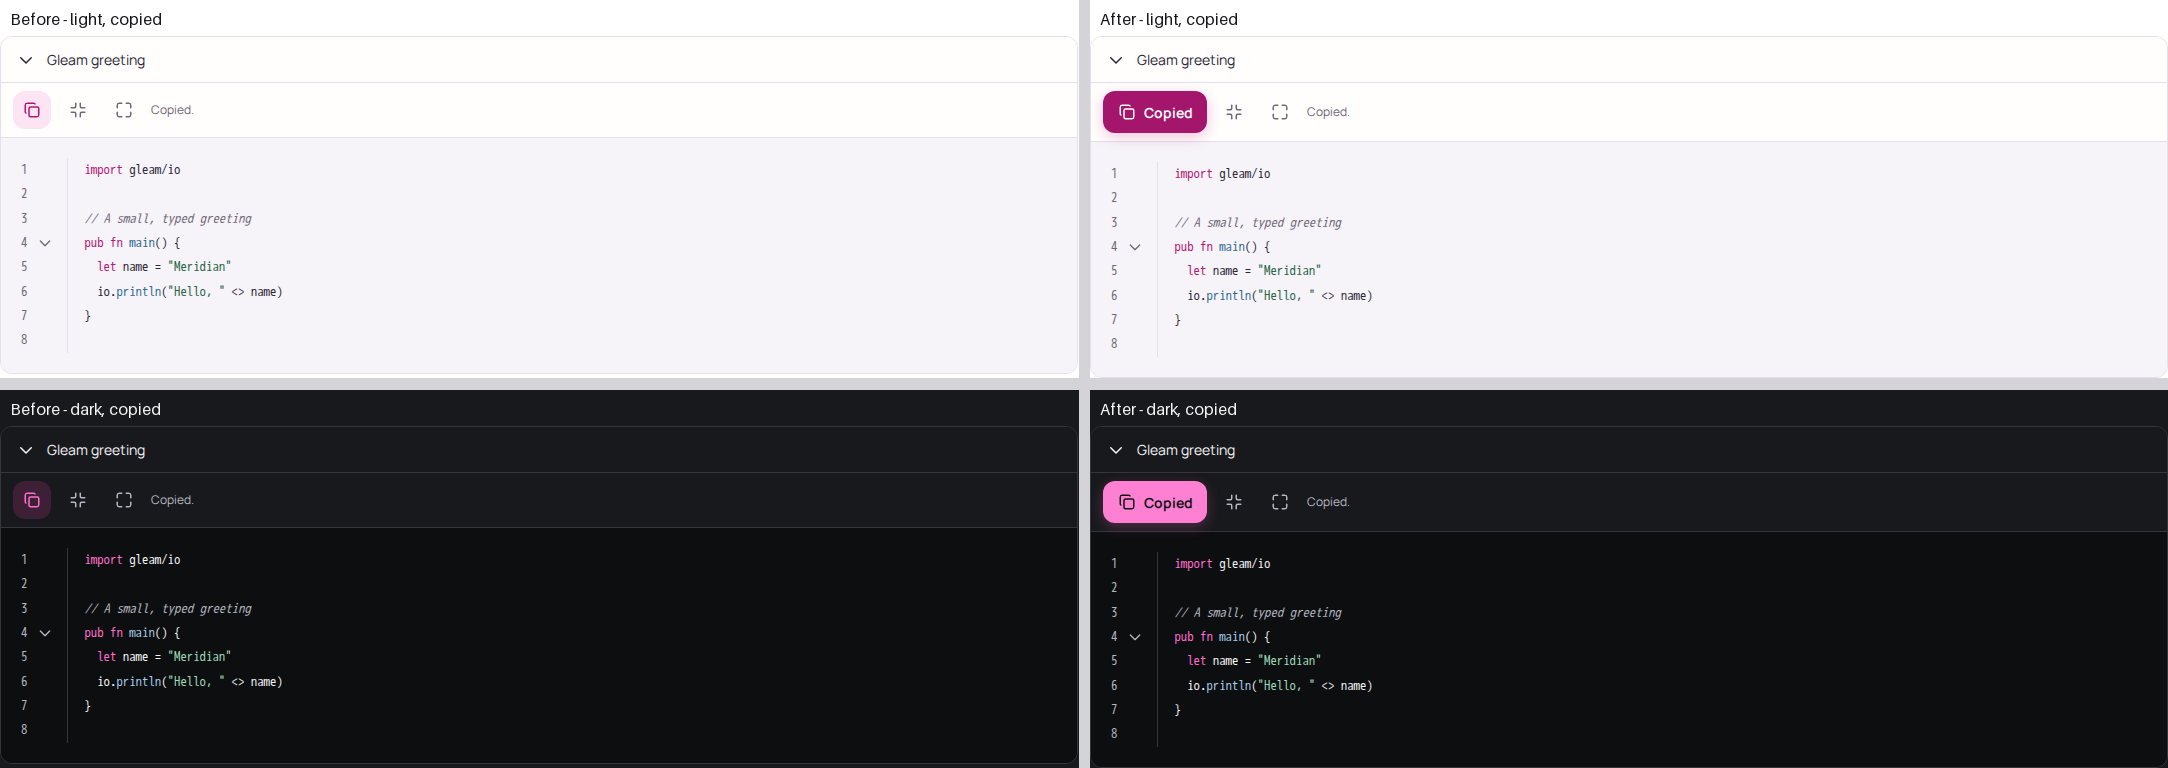
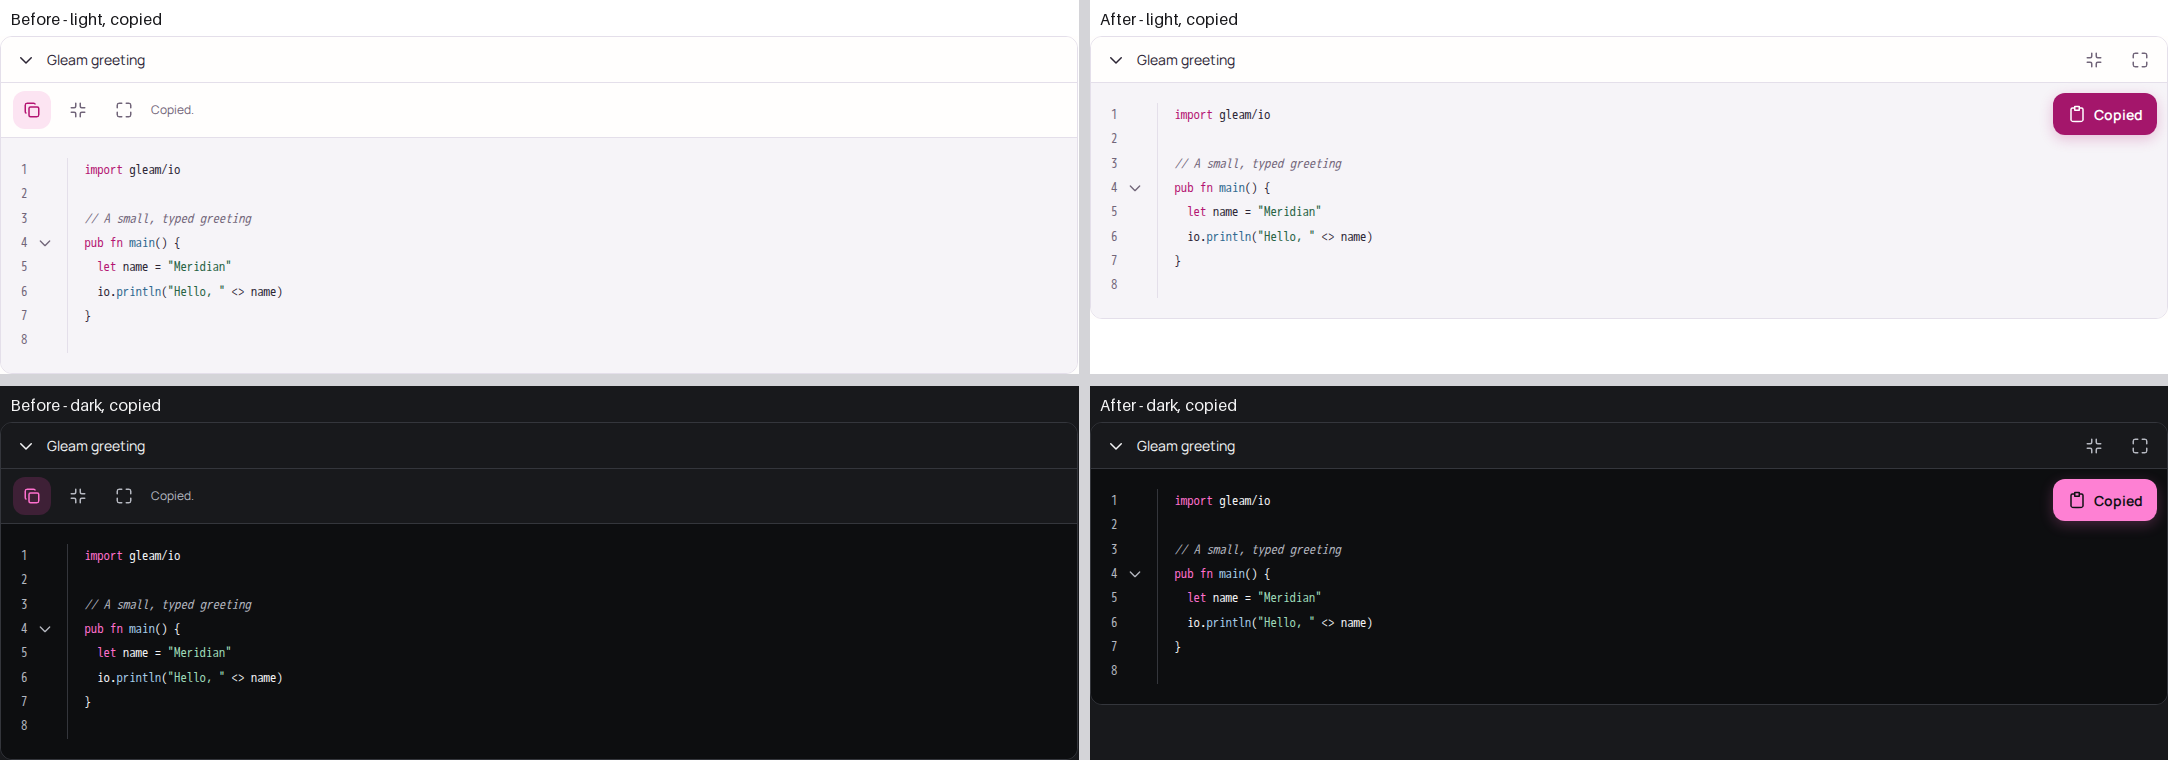
Float code copy over the source with one success label

diff --git a/priv/meridian-ui.css b/priv/meridian-ui.css
@@ -3066,6 +3066,7 @@
     border-block-start: 1px solid currentColor;
   }
   .meridian-code-viewer {
+    position: relative;
     min-inline-size: 0;
     max-inline-size: 100%;
     border: 1px solid var(--border);
@@ -3081,12 +3082,18 @@
   .meridian-code-viewer > summary::-webkit-details-marker {
     display: none;
   }
+  .meridian-code-viewer:has(> .meridian-code-tools) > summary {
+    padding-inline-end: 104px;
+  }
   .meridian-code-viewer[open] > summary .meridian-disclosure-icon {
     transform: rotate(90deg);
   }
-  .meridian-code-viewer > .meridian-code-block {
-    border: 0;
+  .meridian-code-content {
+    position: relative;
     border-block-start: 1px solid var(--border);
+  }
+  .meridian-code-content > .meridian-code-block {
+    border: 0;
     border-radius: 0;
   }
   .meridian-code-block {
@@ -3151,21 +3158,30 @@
     content: " ...";
   }
   .meridian-code-tools {
+    position: absolute;
+    inset-block-start: 4px;
+    inset-inline-end: 8px;
     display: flex;
     align-items: center;
     flex-wrap: wrap;
     gap: 8px;
-    padding: 8px 12px;
-    border-block-start: 1px solid var(--border);
-    background: var(--panel);
   }
-  .meridian-code-tools .meridian-icon {
+  .meridian-code-tools .meridian-icon,
+  .meridian-code-copy .meridian-icon {
     inline-size: 18px;
     block-size: 18px;
   }
   .meridian-code-copy {
+    position: absolute;
+    inset-block-start: 10px;
+    inset-inline-end: 10px;
+    z-index: 1;
     min-inline-size: 6.5rem;
     justify-content: center;
+    opacity: 0.75;
+  }
+  .meridian-code-copy:is(:hover, :focus-visible, [data-copied="true"]) {
+    opacity: 1;
   }
   @media (hover: hover) and (pointer: fine) {
     .meridian-code-viewer:not(:hover):not(:focus-within)
@@ -3174,8 +3190,16 @@
     }
   }
   .meridian-code-status {
+    position: absolute;
     color: var(--muted);
     font-size: 0.75rem;
+  }
+  .meridian-code-status:not(:empty):not(.sr-only) {
+    position: static;
+    display: block;
+    padding: 12px;
+    padding-inline-end: 132px;
+    background: var(--panel);
   }
   .meridian-code-keyword,
   .meridian-code-annotation {

diff --git a/README.md b/README.md
@@ -413,11 +413,14 @@ with syntax colours, line numbers, a left-to-right code layout and keyboard
 scrolling. Line numbers stay out of selected and copied text. It does not evaluate
 HTML or source code. Compose it with `tabs.view` and ordinary buttons to build a
 multi-file example, as the catalogue does.
-Each viewer has a native expand/collapse control. With interactions mounted, its
-own toolbar copies the full source or expands/collapses function and type bodies.
-Copy appears on hover or keyboard focus, and stays visible on touch screens.
-A successful copy shows Copied in the primary colour for 3 seconds. Clipboard
-failures keep the manual selection fallback and announce an error instead.
+Each viewer has a native expand/collapse control. With interactions mounted,
+header buttons expand/collapse function and type bodies. Copy uses the full source.
+Copy floats over the code's top-right corner, with a clipboard icon. It appears
+on code-view hover or keyboard focus, and stays available on touch screens. It is
+slightly transparent until hovered or focused. Folding controls sit in the header.
+A successful copy shows Copied in the button for 3 seconds, using the primary
+colour. Its status announcement is screen-reader-only. Clipboard failures keep
+visible manual-copy instructions instead.
 Gutter buttons fold individual bodies. Folding ignores braces in comments and
 strings. Source text is retained when folded.
 
